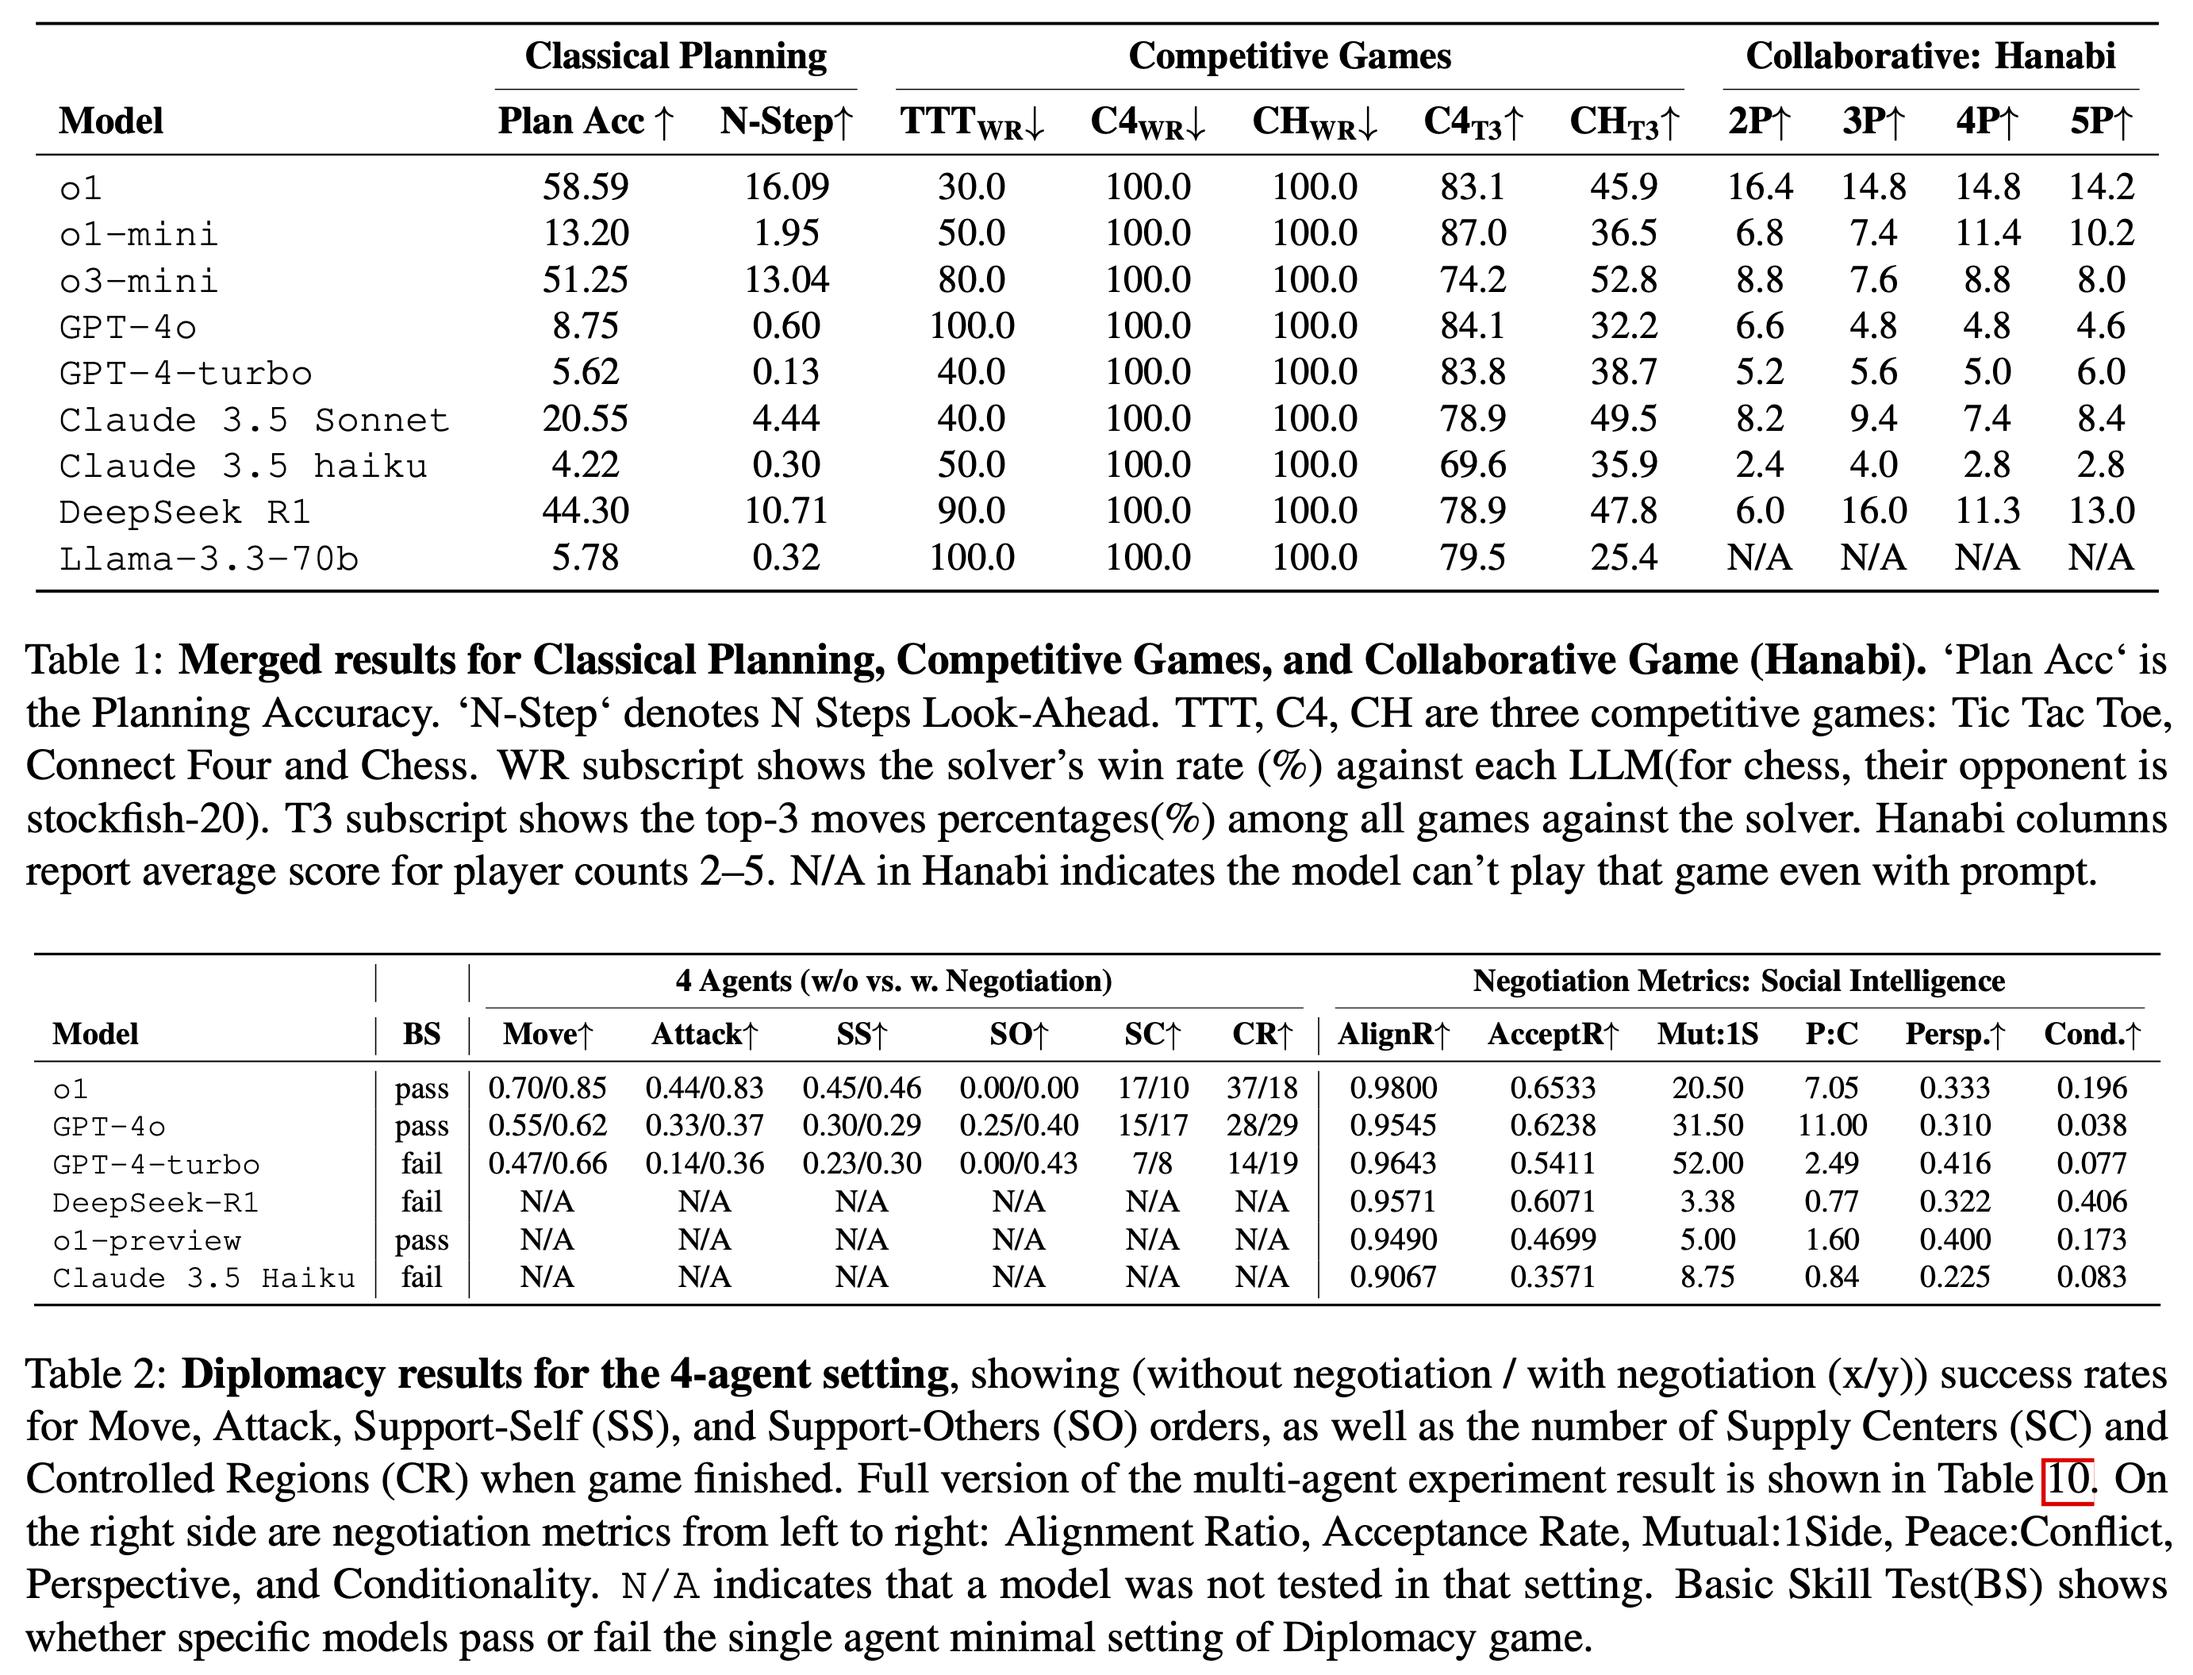
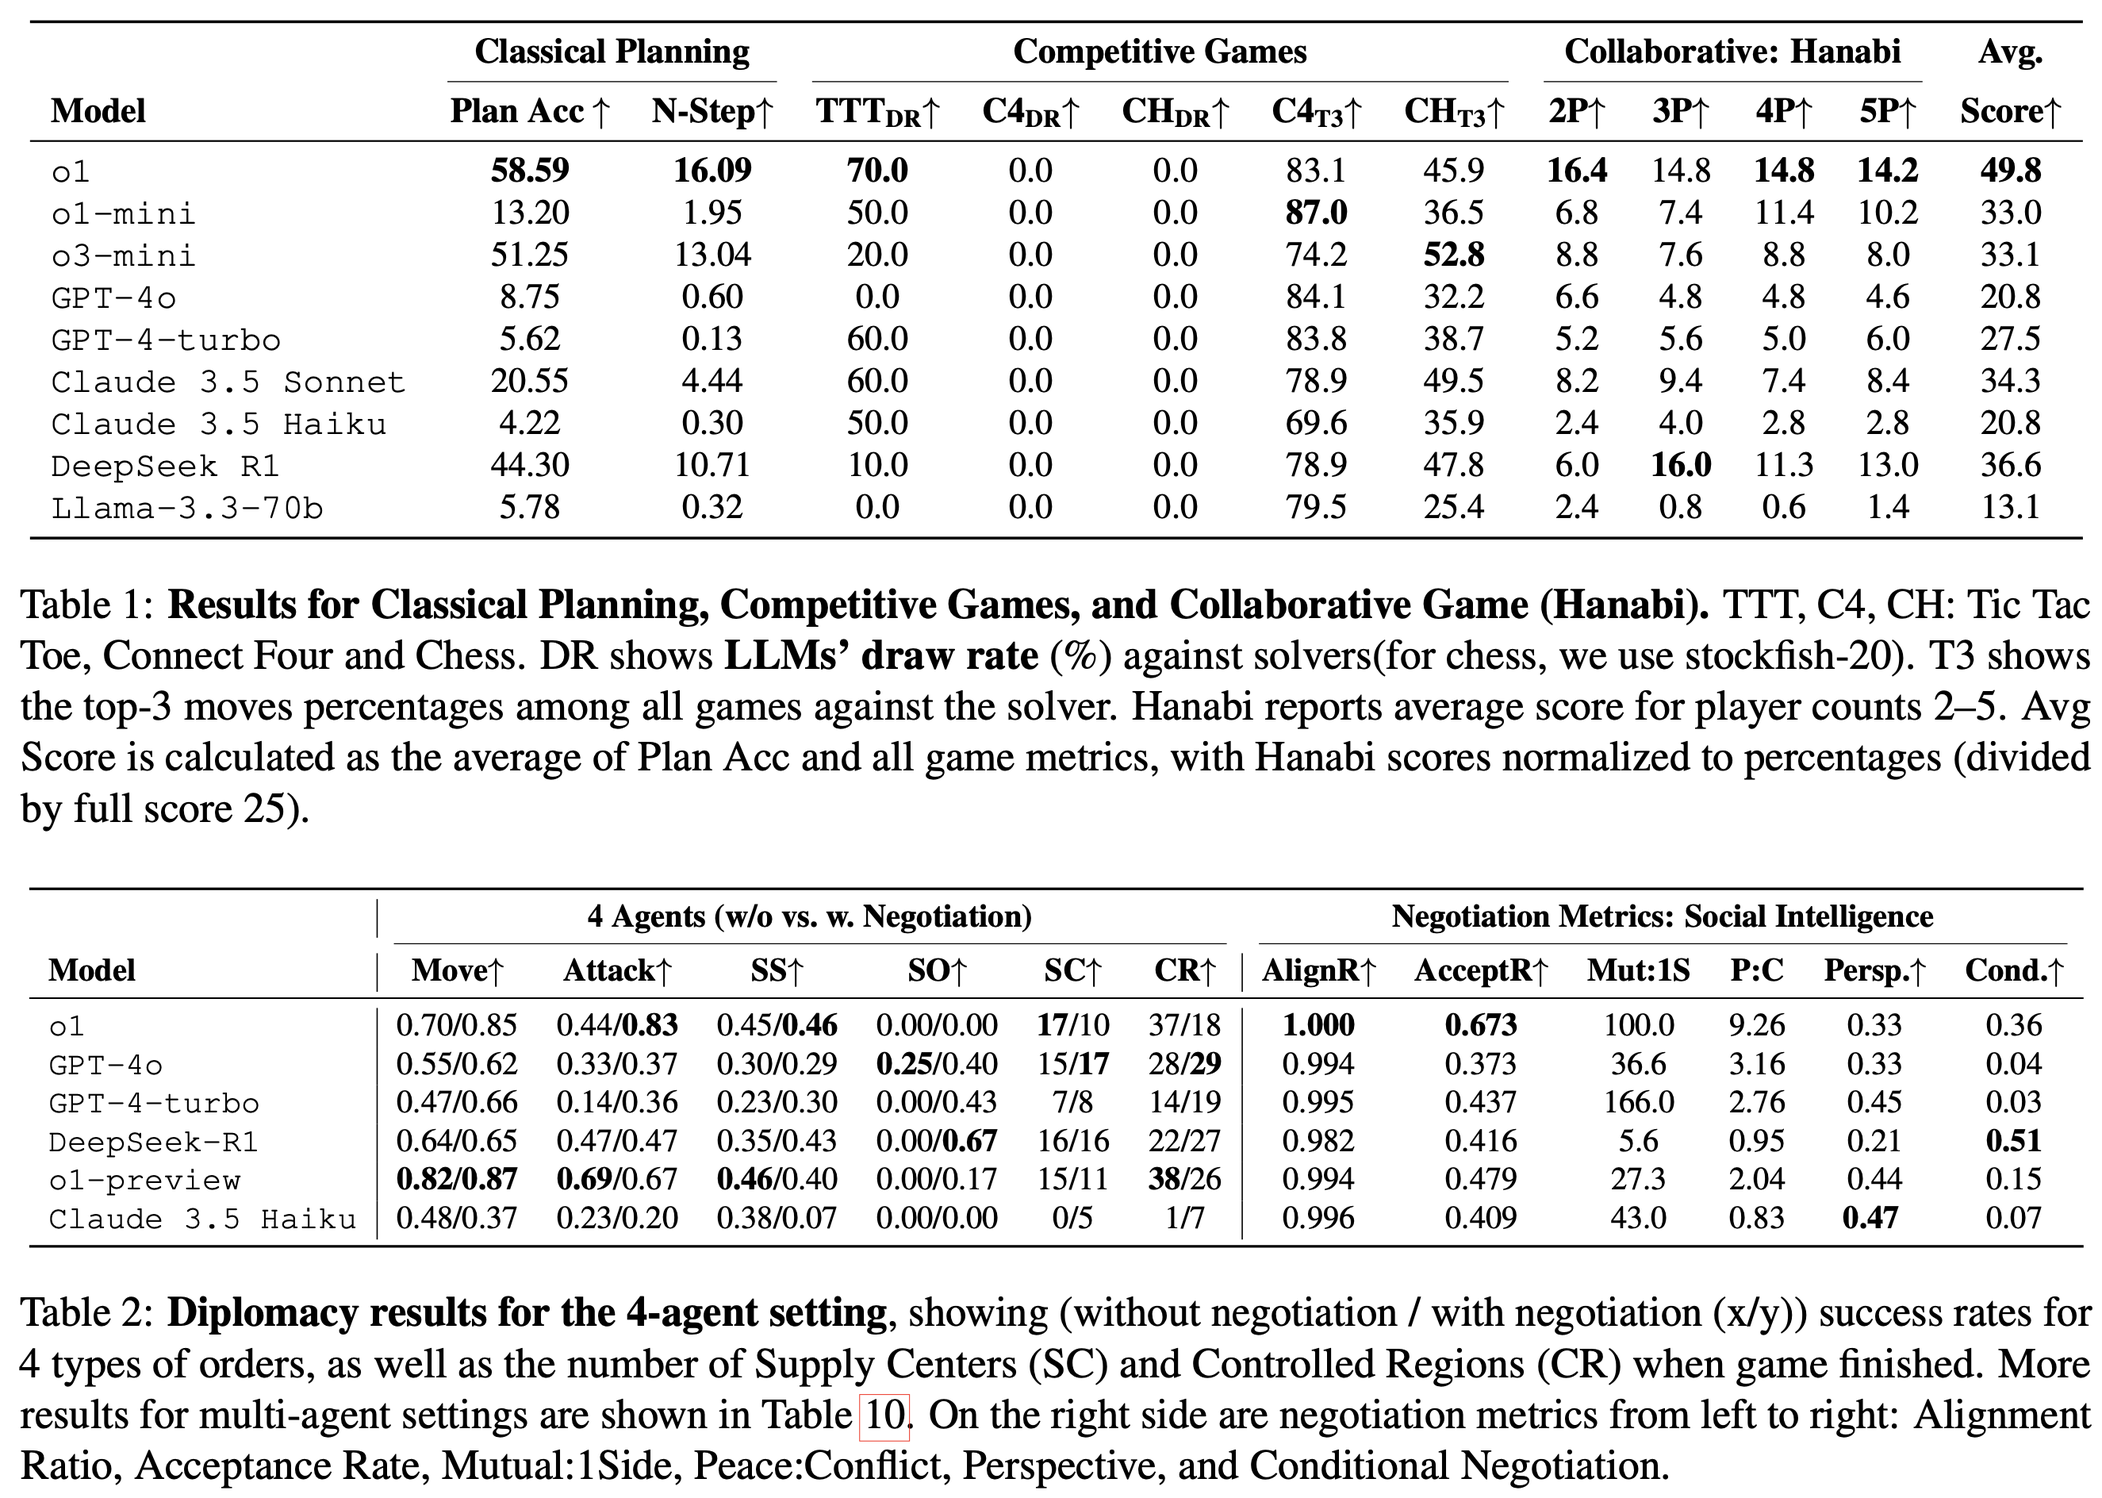
update result

Changed region(s): [[0.0, 0.0, 1.0, 1.0]]

diff --git a/index.html b/index.html
@@ -562,10 +562,10 @@
                 </div>
               </div>
               <div class="box m-5">
-                <div class="content has-text-centered">
-                  <img src="assets/results/solver-win-rate.png" width="90%">
+                <div class="content has-text-draw">
+                  <img src="assets/results/llm-draw-rate.png" width="90%">
                 </div>
-                <p>The Table shows that solvers always win or draw the game. Tic-tac-toe reveals that advanced LLMs (e.g., <code>o1</code>, <code>GPT-4-turbo</code>, <code>Claude 3.5 Sonnet</code>) can achieve draws <strong>some</strong> of the time, but typically still lose or draw to the perfect solver. In Connect Four and Chess, the gap widens: our solver and Stockfish-level engines maintain a 100% win rate across all tested LLMs.</p>
+                <p>The complete result of draw rates of LLMs playing against solvers in Tic Tac Toe, Connect Four, and Chess. Solvers win or draw all the time, without losing any single match. Tic-tac-toe reveals that advanced LLMs (e.g., <code>o1</code>, <code>GPT-4-turbo</code>, <code>Claude 3.5 Sonnet</code>) can achieve draws <strong>some</strong> of the time, but typically still lose or draw to the solver. In Connect Four and Chess, the gap widens: solver and stockfish-level engines maintain a 100% win rate across all tested LLMs.</p>
               </div>
               <div class="box m-5">
                 <div class="content has-text-centered">

diff --git a/trajectories/gifgen.py b/trajectories/gifgen.py
@@ -1,0 +1,158 @@
+import os
+from PIL import Image
+import re
+import cairosvg
+import tempfile
+import shutil
+
+def natural_sort_key(s):
+    """用于自然排序的键函数，确保0.png、1.png、...、10.png等顺序正确"""
+    return [int(text) if text.isdigit() else text.lower()
+            for text in re.split(r'(\d+)', os.path.splitext(s)[0])]
+
+def create_gif_from_pngs(folder_path, output_path, duration=100):
+    """
+    从文件夹中的PNG图片创建GIF动画
+    
+    参数:
+        folder_path: 包含PNG图片的文件夹路径
+        output_path: 输出GIF文件的路径
+        duration: 每帧的持续时间（毫秒）
+    """
+    # 获取文件夹中所有的PNG文件
+    png_files = [f for f in os.listdir(folder_path) if f.endswith('.png')]
+    
+    # 按自然排序方式对文件名进行排序（0.png, 1.png, 2.png, ..., 10.png, ...）
+    png_files.sort(key=natural_sort_key)
+    
+    if not png_files:
+        print("文件夹中没有找到PNG文件！")
+        return
+    
+    print(f"找到 {len(png_files)} 个PNG文件，开始处理...")
+    
+    # 打开所有图像
+    images = []
+    for png_file in png_files:
+        file_path = os.path.join(folder_path, png_file)
+        img = Image.open(file_path)
+        images.append(img)
+    
+    # 保存为GIF
+    images[0].save(
+        output_path,
+        save_all=True,
+        append_images=images[1:],
+        optimize=False,
+        duration=duration,
+        loop=0  # 0表示无限循环
+    )
+    
+    print(f"GIF动画已成功创建并保存至: {output_path}")
+
+def diplomacy_sort_key(filename):
+    """
+    为Diplomacy游戏的阶段文件创建排序键
+    格式如: S1901M, F1901M, W1901A, S1902M 等
+    """
+    # 提取季节 (S=春, F=秋, W=冬)，年份和类型 (M=移动, R=撤退, A=调整)
+    match = re.match(r'([SFW])(\d{4})([MRA]|COMPLETED).*', filename)
+    
+    if not match:
+        # 如果是COMPLETED.svg这种特殊文件，放到最后
+        if filename == "COMPLETED.svg":
+            return (9999, 9999, 'Z')
+        return (0, 0, 'A')  # 其他不符合格式的文件放到最前面
+    
+    season, year, phase = match.groups()
+    
+    # 季节顺序: S(春) -> F(秋) -> W(冬)
+    season_order = {'S': 1, 'F': 2, 'W': 3}
+    
+    # 阶段顺序: M(移动) -> R(撤退) -> A(调整)
+    phase_order = {'M': 1, 'R': 2, 'A': 3, 'COMPLETED': 4}
+    
+    return (int(year), season_order.get(season, 0), phase_order.get(phase, 0))
+
+def create_gif_from_svgs(folder_path, output_path, duration=500, width=800, temp_dir=None):
+    """
+    从文件夹中的SVG文件创建GIF动画
+    
+    参数:
+        folder_path: 包含SVG文件的文件夹路径
+        output_path: 输出GIF文件的路径
+        duration: 每帧的持续时间（毫秒）
+        width: 输出图像的宽度（像素），高度将按比例调整
+        temp_dir: 临时文件夹路径，用于存储中间PNG文件，如果为None则自动创建
+    """
+    # 获取文件夹中所有的SVG文件
+    svg_files = [f for f in os.listdir(folder_path) if f.endswith('.svg')]
+    
+    # 按Diplomacy游戏阶段排序文件
+    svg_files.sort(key=diplomacy_sort_key)
+    
+    if not svg_files:
+        print("文件夹中没有找到SVG文件！")
+        return
+    
+    print(f"找到 {len(svg_files)} 个SVG文件，按照游戏进程顺序排序:")
+    for i, f in enumerate(svg_files):
+        print(f"  {i+1}. {f}")
+    
+    # 创建临时目录存储PNG文件
+    created_temp = False
+    if temp_dir is None:
+        temp_dir = tempfile.mkdtemp()
+        created_temp = True
+    
+    try:
+        # 转换SVG到PNG
+        png_files = []
+        for svg_file in svg_files:
+            svg_path = os.path.join(folder_path, svg_file)
+            png_file = os.path.join(temp_dir, os.path.splitext(svg_file)[0] + '.png')
+            
+            # 使用cairosvg将SVG转换为PNG
+            cairosvg.svg2png(url=svg_path, write_to=png_file, output_width=width)
+            png_files.append(png_file)
+        
+        # 打开所有转换后的PNG图像
+        images = []
+        for png_file in png_files:
+            img = Image.open(png_file)
+            images.append(img)
+        
+        # 保存为GIF
+        if images:
+            images[0].save(
+                output_path,
+                save_all=True,
+                append_images=images[1:],
+                optimize=False,
+                duration=duration,
+                loop=0  # 0表示无限循环
+            )
+            
+            print(f"GIF动画已成功创建并保存至: {output_path}")
+        else:
+            print("没有有效的图像可以转换为GIF")
+    
+    finally:
+        # 清理临时目录
+        if created_temp:
+            shutil.rmtree(temp_dir)
+
+
+if __name__ == "__main__":
+    # folder = "/home/jianzhu/spinbench.github.io/trajectories/llmllm/ttt/Claude-3.5-Haiku_Llama3.3:70b"
+    # folder_path = folder
+    # output_path = "ttt.gif"
+    # duration = 100
+    # create_gif_from_pngs(folder_path, output_path, duration)
+
+
+    folder_path = "/home/jianzhu/spinbench.github.io/trajectories/diplomacy/no-neg/maps"
+    output_path = "diplomacy_game_progress.gif"
+    duration = 500  # 1秒/帧
+    width = 1200
+    create_gif_from_svgs(folder_path, output_path, duration, width)
